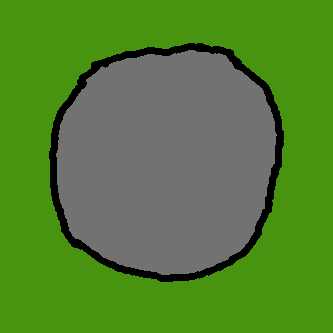
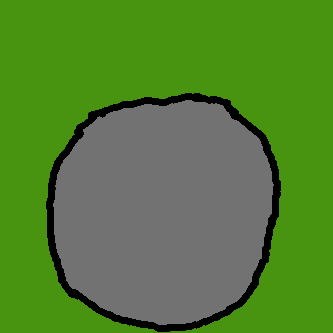
Added 5 more inventory items. "layer#.png"'s are picture layers that are placed on rock pic if you have item that corresponds to that layer

Changed region(s): [[0.1201, 0.1201, 0.8709, 1.0]]

diff --git a/joonasjsadventure.js b/joonasjsadventure.js
@@ -213,6 +213,38 @@ var item02Buffer                 = document.getElementById("item02Buffer");
 var item02Ctx                    = item02Buffer.getContext("2d");
 var item02Sdata                  = item02Ctx.createImageData(333, 333);
 var item02Sprite                 = document.getElementById("item02");
+var item03Buffer                 = document.getElementById("item03Buffer");
+var item03Ctx                    = item03Buffer.getContext("2d");
+var item03Sdata                  = item03Ctx.createImageData(333, 333);
+var item03Sprite                 = document.getElementById("item03");
+var item04Buffer                 = document.getElementById("item04Buffer");
+var item04Ctx                    = item04Buffer.getContext("2d");
+var item04Sdata                  = item04Ctx.createImageData(333, 333);
+var item04Sprite                 = document.getElementById("item04");
+var item05Buffer                 = document.getElementById("item05Buffer");
+var item05Ctx                    = item05Buffer.getContext("2d");
+var item05Sdata                  = item05Ctx.createImageData(333, 333);
+var item05Sprite                 = document.getElementById("item05");
+var item06Buffer                 = document.getElementById("item06Buffer");
+var item06Ctx                    = item06Buffer.getContext("2d");
+var item06Sdata                  = item06Ctx.createImageData(333, 333);
+var item06Sprite                 = document.getElementById("item06");
+var item07Buffer                 = document.getElementById("item07Buffer");
+var item07Ctx                    = item07Buffer.getContext("2d");
+var item07Sdata                  = item07Ctx.createImageData(333, 333);
+var item07Sprite                 = document.getElementById("item07");
+var layer1Buffer                 = document.getElementById("layer1Buffer");
+var layer1Ctx                    = layer1Buffer.getContext("2d");
+var layer1Sdata                  = layer1Ctx.createImageData(248, 166);
+var layer1Sprite                 = document.getElementById("layer1");
+var layer2Buffer                 = document.getElementById("layer2Buffer");
+var layer2Ctx                    = layer2Buffer.getContext("2d");
+var layer2Sdata                  = layer2Ctx.createImageData(318, 254);
+var layer2Sprite                 = document.getElementById("layer2");
+var layer3Buffer                 = document.getElementById("layer3Buffer");
+var layer3Ctx                    = layer3Buffer.getContext("2d");
+var layer3Sdata                  = layer3Ctx.createImageData(301, 120);
+var layer3Sprite                 = document.getElementById("layer3");
 var object01Buffer               = document.getElementById("object01Buffer");
 var object01Ctx                  = object01Buffer.getContext("2d");
 var object01Sdata                = object01Ctx.createImageData(19, 12);
@@ -282,7 +314,7 @@ var saidShowInventory            = false;
 // Inventory items are stored as item index numbers to the inventory array.
 // An inventory item name should consist of 29 characters at max, eg. "Very Long Inventory Item Name".
 var inventory                    = [];
-var inventoryItemNames           = [0, "Hammer", "Rock"];
+var inventoryItemNames           = [0, "Hammer", "Rock", "Watering Can", "Watering Can", "Beanie", "Headphones", "Sunglasses"];
 var score                        = 0;
 // The debug mode of the game engine is enabled by entering the command "debugdebug".
 var debugMode                    = false;
@@ -292,7 +324,12 @@ var showInputWindow              = false;
 var itemDescriptions             = [
 	0,
 	"Your trusty hammer has served you well\nfor several years now.",
-	"This is a smooth, round and slightly wet rock."
+	"This is a smooth, round and slightly wet rock.",
+	"The watering can is empty.",
+	"You have filled the watering can with water from the sea.",
+	"Beanies are something that always seem to be in fashion.",
+	"You have a pair of yellow headphones.",
+	"You found these sunglasses in the old, abandoned house."
 ];
 var room                         = 0;
 
@@ -1383,6 +1420,22 @@ window.onload = function() {
 	item01Sdata = item01Ctx.getImageData(0, 0, item01Buffer.width, item01Buffer.height);
 	item02Ctx.drawImage(item02Sprite, 0, 0);
 	item02Sdata = item02Ctx.getImageData(0, 0, item02Buffer.width, item02Buffer.height);
+	item03Ctx.drawImage(item03Sprite, 0, 0);
+	item03Sdata = item03Ctx.getImageData(0, 0, item03Buffer.width, item03Buffer.height);
+	item04Ctx.drawImage(item04Sprite, 0, 0);
+	item04Sdata = item04Ctx.getImageData(0, 0, item04Buffer.width, item04Buffer.height);
+	item05Ctx.drawImage(item05Sprite, 0, 0);
+	item05Sdata = item05Ctx.getImageData(0, 0, item05Buffer.width, item05Buffer.height);
+	item06Ctx.drawImage(item06Sprite, 0, 0);
+	item06Sdata = item06Ctx.getImageData(0, 0, item06Buffer.width, item06Buffer.height);
+	item07Ctx.drawImage(item07Sprite, 0, 0);
+	item07Sdata = item07Ctx.getImageData(0, 0, item07Buffer.width, item07Buffer.height);
+	layer1Ctx.drawImage(layer1Sprite, 0, 0);
+	layer1Sdata = layer1Ctx.getImageData(0, 0, layer1Buffer.width, layer1Buffer.height);
+	layer2Ctx.drawImage(layer2Sprite, 0, 0);
+	layer2Sdata = layer2Ctx.getImageData(0, 0, layer2Buffer.width, layer2Buffer.height);
+	layer3Ctx.drawImage(layer3Sprite, 0, 0);
+	layer3Sdata = layer3Ctx.getImageData(0, 0, layer3Buffer.width, layer3Buffer.height);
 
 	// We start the game with the title page.
 	ctx.drawImage(screen000picSprite, 0, 0);
@@ -1544,6 +1597,9 @@ window.onload = function() {
 	doSpriteTransparency(sprite036Ctx, sprite036Buffer, sprite036Sdata, 52, 90, 72);
 	doSpriteTransparency(sprite037Ctx, sprite037Buffer, sprite037Sdata, 52, 90, 72);
 	doSpriteTransparency(object01Ctx, object01Buffer, object01Sdata, 72, 147, 15);
+	doSpriteTransparency(layer1Ctx, layer1Buffer, layer1Sdata, 72, 147, 15);
+	doSpriteTransparency(layer2Ctx, layer2Buffer, layer2Sdata, 72, 147, 15);
+	doSpriteTransparency(layer3Ctx, layer3Buffer, layer3Sdata, 72, 147, 15);
 	setIndicesAndTransparenciesForFont(0); // 0 = set indices and transparencies for main (default) font
 	setIndicesAndTransparenciesForFont(1); // 1 = set indices and transparencies for narrow font
 
@@ -2195,6 +2251,21 @@ function play(delta)
 								break;
 							case 2:
 								spriteToDraw = item02Sprite;
+								break;
+							case 3:
+								spriteToDraw = item03Sprite;
+								break;
+							case 4:
+								spriteToDraw = item04Sprite;
+								break;
+							case 5:
+								spriteToDraw = item05Sprite;
+								break;
+							case 6:
+								spriteToDraw = item06Sprite;
+								break;
+							case 7:
+								spriteToDraw = item07Sprite;
 								break;
 						}
 						ctx.drawImage(spriteToDraw, x + messageWindowMarginWidth + 3, y + messageWindowMarginHeight + 3);

diff --git a/joonasjsadventure.html b/joonasjsadventure.html
@@ -99,6 +99,22 @@ Your browser does not support the HTML5 canvas tag.</canvas>
 Your browser does not support the HTML5 canvas tag.</canvas>
 <canvas id="item02Buffer" width="333" height="333" style="border:1px solid #d3d3d3;" hidden="true">
 Your browser does not support the HTML5 canvas tag.</canvas>
+<canvas id="item03Buffer" width="333" height="333" style="border:1px solid #d3d3d3;" hidden="true">
+Your browser does not support the HTML5 canvas tag.</canvas>
+<canvas id="item04Buffer" width="333" height="333" style="border:1px solid #d3d3d3;" hidden="true">
+Your browser does not support the HTML5 canvas tag.</canvas>
+<canvas id="item05Buffer" width="333" height="333" style="border:1px solid #d3d3d3;" hidden="true">
+Your browser does not support the HTML5 canvas tag.</canvas>
+<canvas id="item06Buffer" width="333" height="333" style="border:1px solid #d3d3d3;" hidden="true">
+Your browser does not support the HTML5 canvas tag.</canvas>
+<canvas id="item07Buffer" width="333" height="333" style="border:1px solid #d3d3d3;" hidden="true">
+Your browser does not support the HTML5 canvas tag.</canvas>
+<canvas id="layer1Buffer" width="248" height="166" style="border:1px solid #d3d3d3;" hidden="true">
+Your browser does not support the HTML5 canvas tag.</canvas>
+<canvas id="layer2Buffer" width="318" height="254" style="border:1px solid #d3d3d3;" hidden="true">
+Your browser does not support the HTML5 canvas tag.</canvas>
+<canvas id="layer3Buffer" width="301" height="120" style="border:1px solid #d3d3d3;" hidden="true">
+Your browser does not support the HTML5 canvas tag.</canvas>
 <canvas id="object01Buffer" width="19" height="12" style="border:1px solid #d3d3d3;" hidden="true">
 Your browser does not support the HTML5 canvas tag.</canvas>
 <img id="screen000pic" width="1910" height="909" src="screen000pic.png" hidden="true">
@@ -150,6 +166,14 @@ Your browser does not support the HTML5 canvas tag.</canvas>
 <img id="narrowFont" width="416" height="168" src="joonasadventure_narrow_font.png" hidden="true">
 <img id="item01" width="333" height="333" src="item01.png" hidden="true">
 <img id="item02" width="333" height="333" src="item02.png" hidden="true">
+<img id="item03" width="333" height="333" src="item03.png" hidden="true">
+<img id="item04" width="333" height="333" src="item04.png" hidden="true">
+<img id="item05" width="333" height="333" src="item05.png" hidden="true">
+<img id="item06" width="333" height="333" src="item06.png" hidden="true">
+<img id="item07" width="333" height="333" src="item07.png" hidden="true">
+<img id="layer1" width="248" height="166" src="layer1.png" hidden="true">
+<img id="layer2" width="318" height="254" src="layer2.png" hidden="true">
+<img id="layer3" width="301" height="120" src="layer3.png" hidden="true">
 <img id="object01" width="19" height="12" src="object01.png" hidden="true">
 
 <script src="pixi.min.js"></script>
